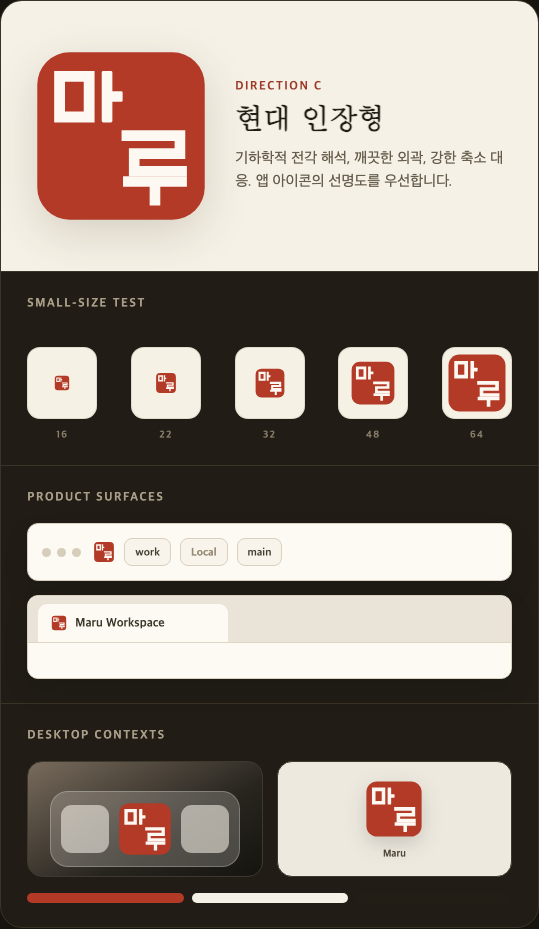
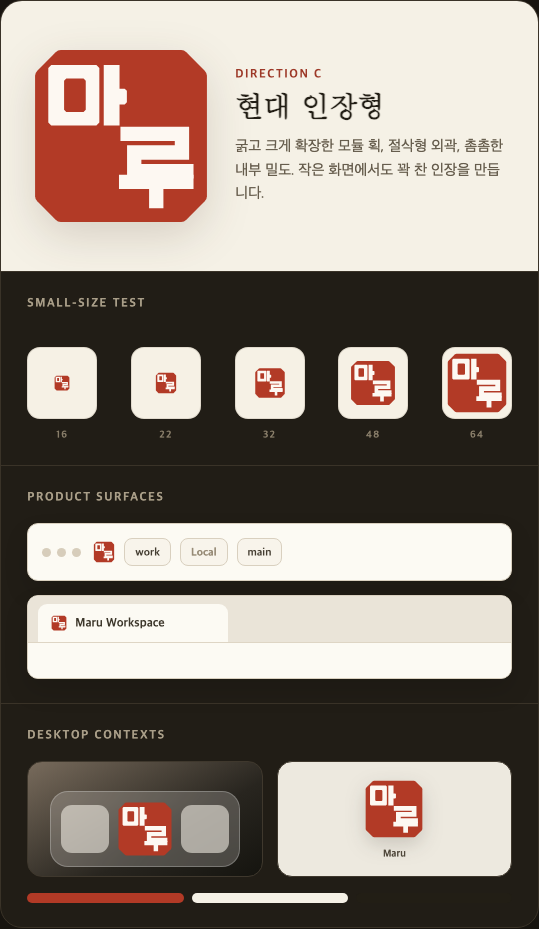
feat(design): densify the modern Maru seal

diff --git a/docs/design-qa/maru-seal-options/preview.html b/docs/design-qa/maru-seal-options/preview.html
@@ -396,7 +396,7 @@
             <div>
               <div class="option-kicker">Direction C</div>
               <h2>현대 인장형</h2>
-              <p class="option-copy">기하학적 전각 해석, 깨끗한 외곽, 강한 축소 대응. 앱 아이콘의 선명도를 우선합니다.</p>
+              <p class="option-copy">굵고 크게 확장한 모듈 획, 절삭형 외곽, 촘촘한 내부 밀도. 작은 화면에서도 꽉 찬 인장을 만듭니다.</p>
             </div>
           </div>
           <div class="section">
